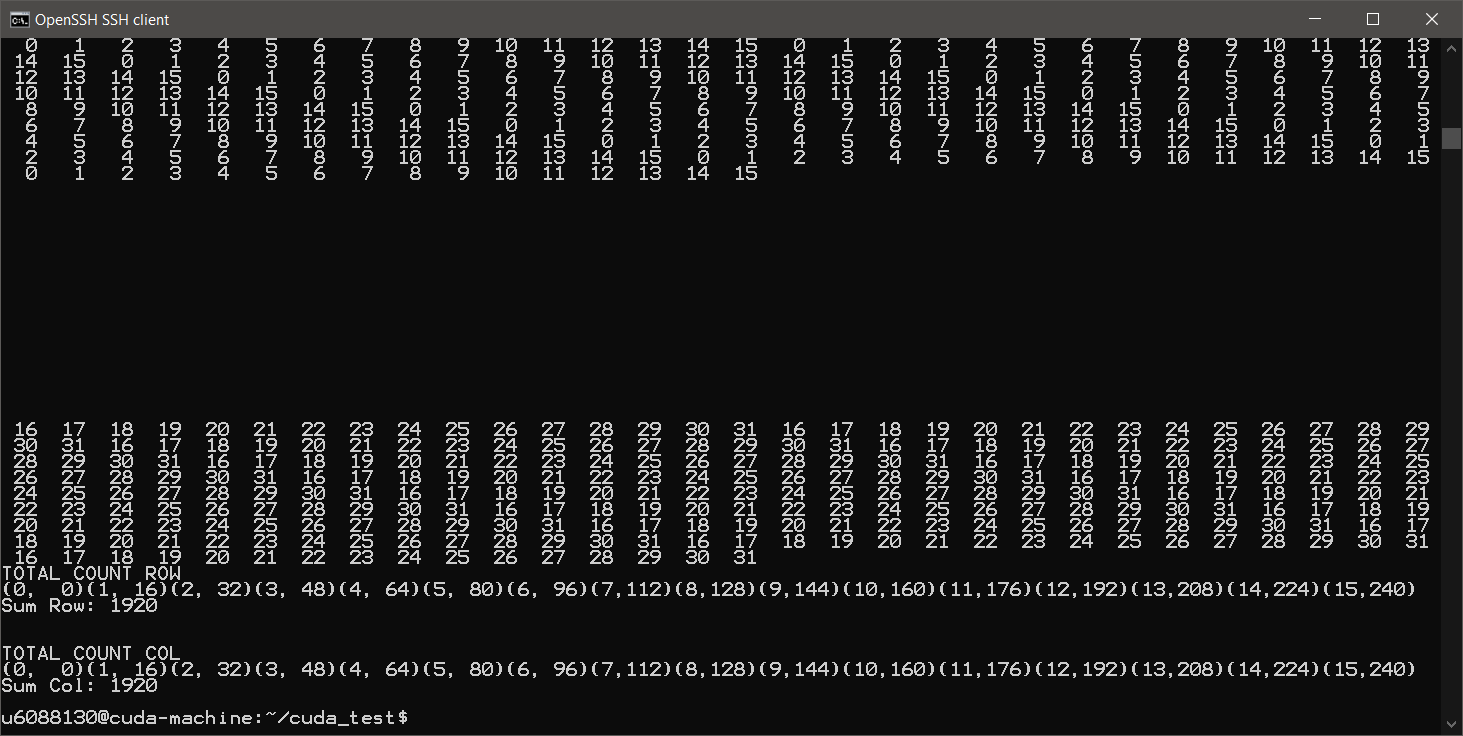
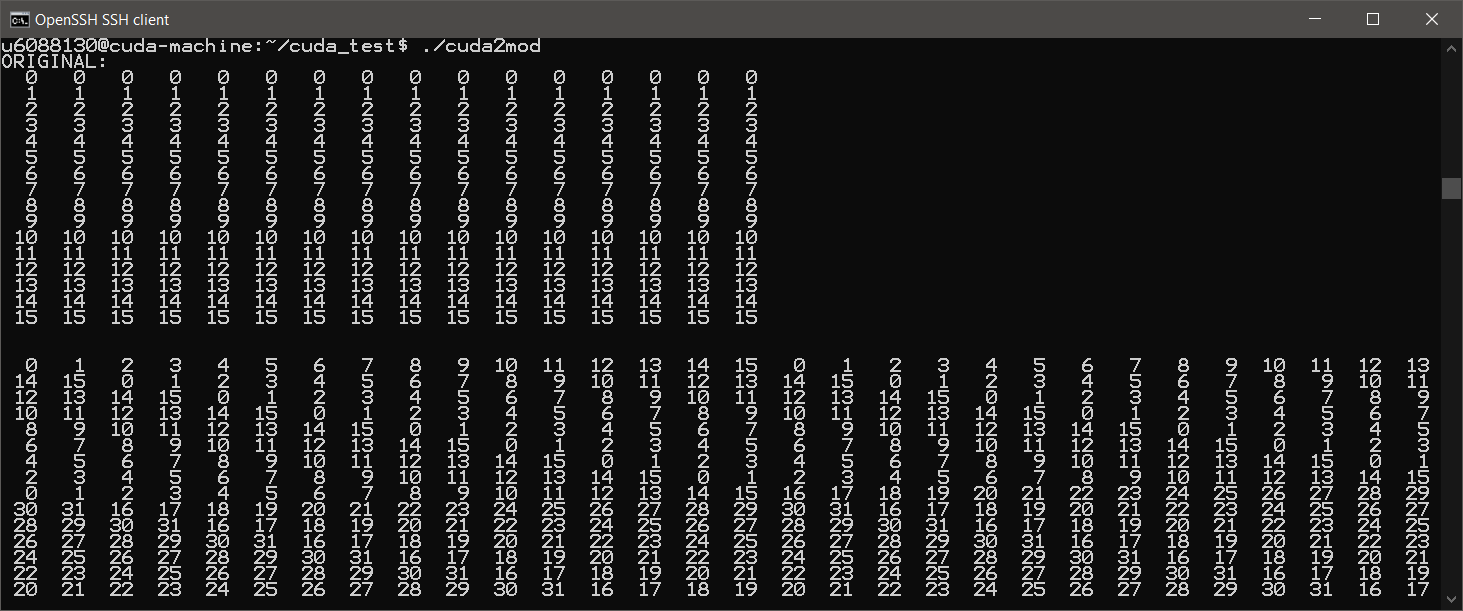
update resource

diff --git a/Exercise/EX7/README.md b/Exercise/EX7/README.md
@@ -177,59 +177,42 @@ Atomic Operation นั้นเป็นการทำงานแบบที
 
 ```C++
 #include <stdio.h>
-#include <stdlib.h>
+
 #define n 16
 
 __global__ void countNumberInArray(int *originalData, int *arrayCount)
-{
-    int index = blockIdx.x * blockDim.x + threadIdx.x, i;
-
+{    
+    int index = threadIdx.x, i;
     int sum = 0;
     if(threadIdx.x < n)
     {
-    for(i = 0; i < n; i++)
-    {
-        if(i < n)
+        for(i = 0; i < n; i++)
         {
             sum += originalData[(index * n) + i];
-            // atomicAdd(&arrayCount[index],sum);
+            printf("%3d " ,threadIdx.x);
         }
-        else
-        {
-            sum += originalData[(index * n) + index];
-            // atomicAdd(&arrayCount[index],sum);
-        }
-        printf("%3d " ,threadIdx.x);
-    }
     }
     else
     {
         for(i = 0; i < n; i++)
         {
-            if(i < n)
-            {
-                sum += originalData[(index * n) + i];
-                // atomicAdd(&arrayCount[index],sum);
-            }
-            else
-            {
-                sum += originalData[(index * n) + index];
-                // atomicAdd(&arrayCount[index],sum);
-            }
+            sum += originalData[(i * n) + index];
             printf("%3d " ,threadIdx.x);
-        }
+        }   
     }
-
-    atomicAdd(&arrayCount[index],sum);
+    atomicAdd(&arrayCount[index],sum);        
 }
 
 int main(int argc, char *argv[])
 {
     int totalCount = 2 * n;
     int originalData[n][n], count[totalCount];
-    int i, j;
+    int i = 0;
+    int j = 0;
+
     int *deviceOriginalData, *deviceArrayCount;
-    int arrayByteSize = (n *n) * sizeof(int);
+
+    int arrayByteSize = (n * n) * sizeof(int);
     int countArrayByteSize = totalCount * sizeof(int);
 
     printf("ORIGINAL: \n");
@@ -237,7 +220,7 @@ int main(int argc, char *argv[])
     {
         for(j = 0; j < n; j++)
         {
-            originalData[i][j] = 1;
+            originalData[i][j] = i;
             printf("%3d ", originalData[i][j]);
         }
         printf("\n");
@@ -263,17 +246,14 @@ int main(int argc, char *argv[])
     {
         if(l < n)
         {
-            rowCounts[rowArrayIterator++] = count[l]; 
+            rowCounts[rowArrayIterator++] = count[l];
             rowsum += count[l];
-        } 
-    }
-    for(l = 0; l < totalCount; l++)
-    {
-        if(l < n)
+        }
+        else
         {
             colCounts[colArrayIterator++] = count[l];
+            colsum += count[l];
         }
-        colsum += count[l];
     }
     printf("TOTAL COUNT ROW\n");
     for(l = 0; l < n; l++)
@@ -337,8 +317,25 @@ __global__ void countNumberInArray(int *originalData, int *arrayCount)
     atomicAdd(&arrayCount[index],sum);
 }
 ```
-การที่เราใช้ **if-else condition** นั้นเพื่อทำการแบ่งให้เธรด(thread) ทำงานคนละครึ่ง ซึ่
+การที่เราใช้ **if-else condition** นั้นเพื่อทำการแบ่งให้เธรด(thread) ทำงานคนละครึ่งซึ่งจะแบ่งแบบนี้
 
+![3.1](https://raw.githubusercontent.com/SunatP/ITCS443_Parallel/master/Exercise/EX7/img/3.1.PNG)<br> โดยตัวเลข 0 - 15 (รวมทั้งหมด 16 threads) นั้นคือการทำส่วน แถว (Row) ก่อน ส่วน 16 - 31 (รวมทั้งหมด 16 threads) จะทำส่วนหลัก (Column) ซึ่งค่าแต่ละหลักรวมกันจะเป็นแบบนี้
+
+```bash
+Row[1] = 0 บวกกัน 16 ครั้ง จะได้ 0
+Row[2] = 1 บวกกัน 16 ครั้ง จะได้ 16
+  .
+  .
+  .
+Row[16] = 15 บวกกัน 16 ครั้ง จะได้ 240
+--------------------
+Column[1] = บวกตั้งแต่ 0 ไปจนถึง 15 จะได้ 120 # จะได้ 120 ทุกแถว
+column[2] = บวกตั้งแต่ 0 ไปจนถึง 15 จะได้ 120 # จะได้ 120 ทุกแถว
+  .
+  .
+  .
+column[16] = บวกตั้งแต่ 0 ไปจนถึง 15 จะได้ 120 # จะได้ 120  
+```
 
 ผลลัพธ์ที่ได้
 ![3](https://raw.githubusercontent.com/SunatP/ITCS443_Parallel/master/Exercise/EX7/img/3.PNG)
